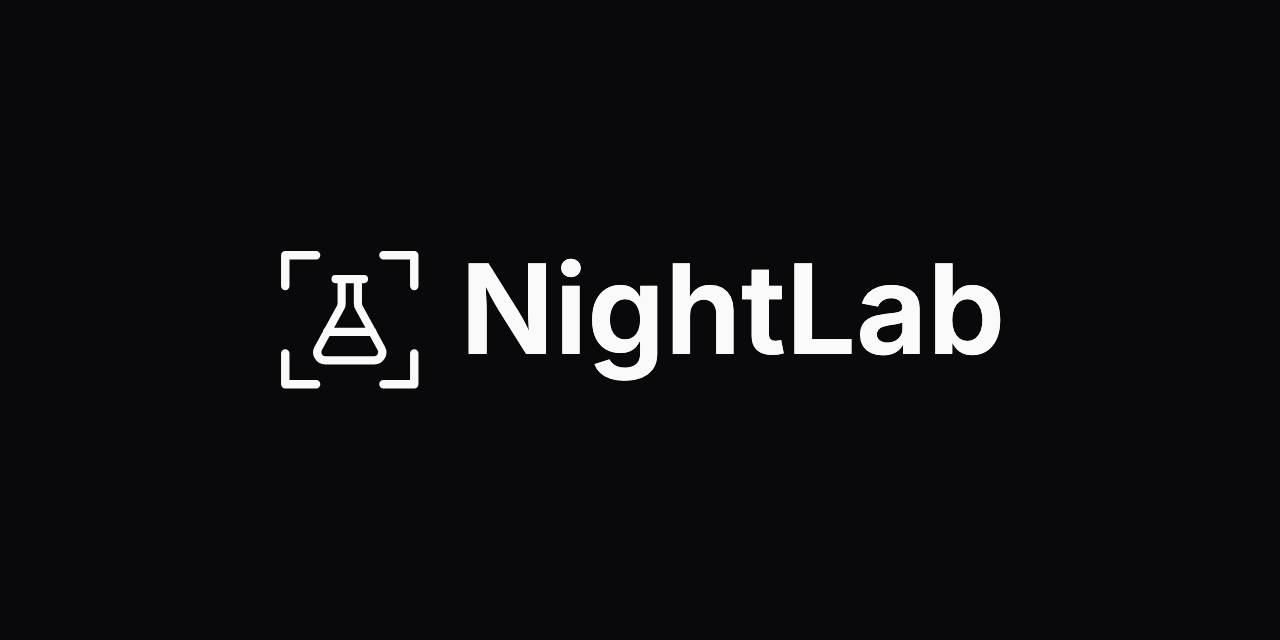
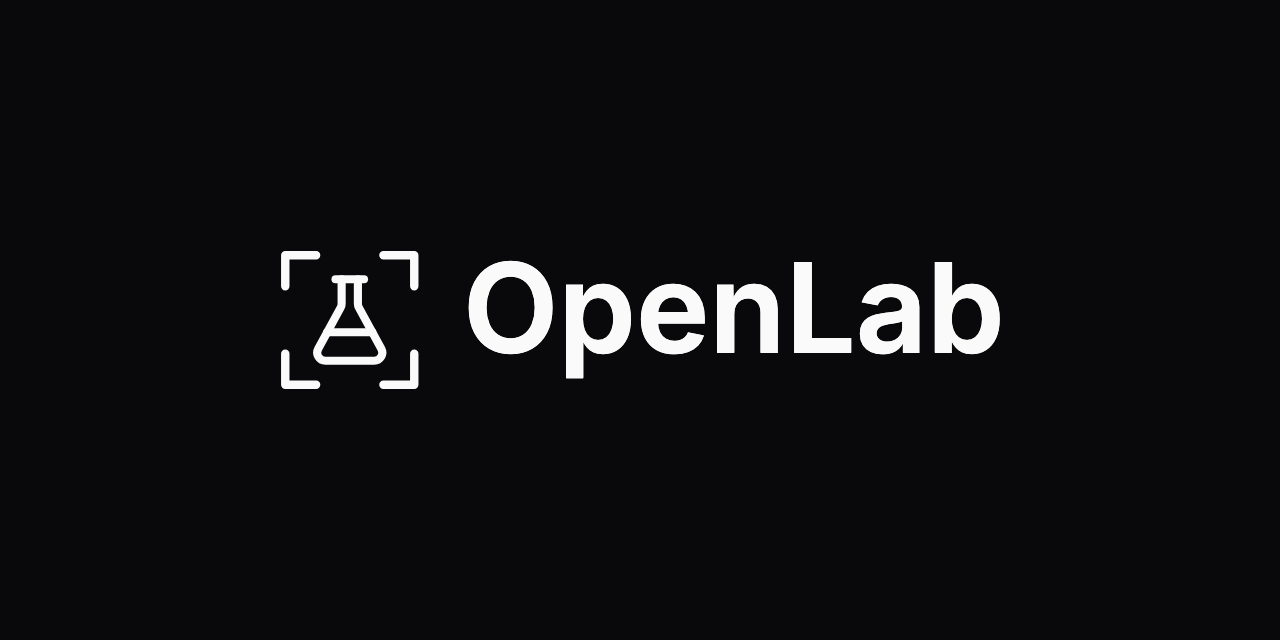
refactor(brand)!: rename the pack and reset the wordmark to OpenLab
The mark itself is untouched: the frame and the flask are one geometry
and carry no name. What changes is the word beside it, and every box the
word sets.

The lockups are re-typeset from the proportions this pack already states
rather than nudged by eye — the word's ink sits 0.28 of the mark's height
after the mark's ink and centred on it, 0.19 below it when stacked, with
the mark's own 11.7% padding closing each box. The horizontal lockup
comes out the same 271x64; the stacked one loses a unit to 204x118,
because `p` does not descend as far as `g` did.

The PNGs that carry the word are re-rendered from those lockups at the
sizes they shipped at. The ones that carry only the mark keep their bytes
and take the new name.

BREAKING CHANGE: every file in the pack is named openlab-* instead of
nightlab-*, and the React components are OpenLabMark and OpenLabLockup.

diff --git a/brand/preview.html b/brand/preview.html
@@ -3,7 +3,7 @@
 <head>
 <meta charset="utf-8" />
 <meta name="viewport" content="width=device-width, initial-scale=1" />
-<title>NightLab — brand pack</title>
+<title>OpenLab — brand pack</title>
 <style>
     :root { color-scheme: light dark; --bg: #f4f4f7; --ink: #09090b; --muted: #63646f; --rule: #d8d8e0; }
     @media (prefers-color-scheme: dark) { :root { --bg: #0f0f13; --ink: #fafafa; --muted: #9899a6; --rule: #2e2f3a; } }
@@ -40,31 +40,31 @@
 <body>
 <main>
     <header>
-        <h1>NightLab</h1>
+        <h1>OpenLab</h1>
         <p>Everything in this pack, at a glance. Generated from one geometry — see README.md.</p>
     </header>
 
     <section>
         <h2>Mark</h2>
         <p>Each file below sits on the ground it was made for, whatever theme you are reading this in.
-           The dark ground leads here on purpose: the product is called NightLab, and that is the ground
-           it will be seen on most.</p>
+           The dark ground leads here on purpose: the lab is driven from a terminal and watched on a
+           dark dashboard, and that is the ground the mark will be seen on most.</p>
         <div class="grid">
-        <figure class="tile sq auto"><img src="svg/nightlab-mark.svg" alt="nightlab-mark.svg" /><figcaption>nightlab-mark.svg<span class="note">switches itself</span></figcaption></figure>
-        <figure class="tile sq"><img src="svg/nightlab-mark-dark.svg" alt="nightlab-mark-dark.svg" /><figcaption>nightlab-mark-dark.svg<span class="note">for light grounds</span></figcaption></figure>
-        <figure class="tile sq ink"><img src="svg/nightlab-mark-light.svg" alt="nightlab-mark-light.svg" /><figcaption>nightlab-mark-light.svg<span class="note">for dark grounds</span></figcaption></figure>
-        <figure class="tile sq"><img src="svg/nightlab-mark-accent.svg" alt="nightlab-mark-accent.svg" /><figcaption>nightlab-mark-accent.svg<span class="note">brand colour</span></figcaption></figure>
-        <figure class="tile sq brand"><img src="svg/nightlab-mark-light.svg" alt="nightlab-mark-light.svg" /><figcaption>nightlab-mark-light.svg<span class="note">knocked out of the accent</span></figcaption></figure>
-        <figure class="tile sq auto"><img src="svg/nightlab-mark-dense.svg" alt="nightlab-mark-dense.svg" /><figcaption>nightlab-mark-dense.svg<span class="note">20px and below</span></figcaption></figure>
+        <figure class="tile sq auto"><img src="svg/openlab-mark.svg" alt="openlab-mark.svg" /><figcaption>openlab-mark.svg<span class="note">switches itself</span></figcaption></figure>
+        <figure class="tile sq"><img src="svg/openlab-mark-dark.svg" alt="openlab-mark-dark.svg" /><figcaption>openlab-mark-dark.svg<span class="note">for light grounds</span></figcaption></figure>
+        <figure class="tile sq ink"><img src="svg/openlab-mark-light.svg" alt="openlab-mark-light.svg" /><figcaption>openlab-mark-light.svg<span class="note">for dark grounds</span></figcaption></figure>
+        <figure class="tile sq"><img src="svg/openlab-mark-accent.svg" alt="openlab-mark-accent.svg" /><figcaption>openlab-mark-accent.svg<span class="note">brand colour</span></figcaption></figure>
+        <figure class="tile sq brand"><img src="svg/openlab-mark-light.svg" alt="openlab-mark-light.svg" /><figcaption>openlab-mark-light.svg<span class="note">knocked out of the accent</span></figcaption></figure>
+        <figure class="tile sq auto"><img src="svg/openlab-mark-dense.svg" alt="openlab-mark-dense.svg" /><figcaption>openlab-mark-dense.svg<span class="note">20px and below</span></figcaption></figure>
         </div>
     </section>
 
     <section>
         <h2>Lockups</h2>
         <div class="grid c1">
-        <figure class="tile wide"><img src="svg/nightlab-lockup.svg" alt="nightlab-lockup.svg" /><figcaption>nightlab-lockup.svg<span class="note">271&times;64</span></figcaption></figure>
-        <figure class="tile ink wide"><img src="svg/nightlab-lockup-light.svg" alt="nightlab-lockup-light.svg" /><figcaption>nightlab-lockup-light.svg<span class="note">same lockup, for dark grounds</span></figcaption></figure>
-        <figure class="tile wide"><img src="svg/nightlab-lockup-stacked.svg" alt="nightlab-lockup-stacked.svg" /><figcaption>nightlab-lockup-stacked.svg<span class="note">204&times;119, for square spaces</span></figcaption></figure>
+        <figure class="tile wide"><img src="svg/openlab-lockup.svg" alt="openlab-lockup.svg" /><figcaption>openlab-lockup.svg<span class="note">271&times;64</span></figcaption></figure>
+        <figure class="tile ink wide"><img src="svg/openlab-lockup-light.svg" alt="openlab-lockup-light.svg" /><figcaption>openlab-lockup-light.svg<span class="note">same lockup, for dark grounds</span></figcaption></figure>
+        <figure class="tile wide"><img src="svg/openlab-lockup-stacked.svg" alt="openlab-lockup-stacked.svg" /><figcaption>openlab-lockup-stacked.svg<span class="note">204&times;118, for square spaces</span></figcaption></figure>
         </div>
     </section>
 
@@ -75,16 +75,16 @@
         <figure class="tile true"><img src="favicon/favicon-16.png" alt="favicon-16.png" /><figcaption>favicon-16.png<span class="note">dense</span></figcaption></figure>
         <figure class="tile true"><img src="favicon/favicon-32.png" alt="favicon-32.png" /><figcaption>favicon-32.png<span class="note">dense</span></figcaption></figure>
         <figure class="tile true"><img src="favicon/favicon-48.png" alt="favicon-48.png" /><figcaption>favicon-48.png<span class="note">dense</span></figcaption></figure>
-        <figure class="tile true"><img src="png/nightlab-mark-64.png" alt="nightlab-mark-64.png" /><figcaption>nightlab-mark-64.png<span class="note">regular</span></figcaption></figure>
+        <figure class="tile true"><img src="png/openlab-mark-64.png" alt="openlab-mark-64.png" /><figcaption>openlab-mark-64.png<span class="note">regular</span></figcaption></figure>
         </div>
     </section>
 
     <section>
         <h2>Raster</h2>
         <div class="grid c4">
-        <figure class="tile sq"><img src="png/nightlab-mark-512.png" alt="nightlab-mark-512.png" /><figcaption>nightlab-mark-512.png<span class="note">avatars, wherever SVG is refused</span></figcaption></figure>
-        <figure class="tile sq ink"><img src="png/nightlab-mark-light-512.png" alt="nightlab-mark-light-512.png" /><figcaption>nightlab-mark-light-512.png<span class="note">for dark grounds</span></figcaption></figure>
-        <figure class="tile sq"><img src="png/nightlab-mark-accent-512.png" alt="nightlab-mark-accent-512.png" /><figcaption>nightlab-mark-accent-512.png<span class="note">brand colour</span></figcaption></figure>
+        <figure class="tile sq"><img src="png/openlab-mark-512.png" alt="openlab-mark-512.png" /><figcaption>openlab-mark-512.png<span class="note">avatars, wherever SVG is refused</span></figcaption></figure>
+        <figure class="tile sq ink"><img src="png/openlab-mark-light-512.png" alt="openlab-mark-light-512.png" /><figcaption>openlab-mark-light-512.png<span class="note">for dark grounds</span></figcaption></figure>
+        <figure class="tile sq"><img src="png/openlab-mark-accent-512.png" alt="openlab-mark-accent-512.png" /><figcaption>openlab-mark-accent-512.png<span class="note">brand colour</span></figcaption></figure>
         <figure class="tile sq"><img src="png/apple-touch-icon-180.png" alt="apple-touch-icon-180.png" /><figcaption>apple-touch-icon-180.png<span class="note">iOS home screen</span></figcaption></figure>
         <figure class="tile wide"><img src="png/social-preview-1280x640.png" alt="social-preview-1280x640.png" /><figcaption>social-preview-1280x640.png<span class="note">GitHub social preview</span></figcaption></figure>
         </div>

diff --git a/brand/react/openlab-lockup.tsx b/brand/react/openlab-lockup.tsx
@@ -1,6 +1,6 @@
-import { NightLabMark } from "#src/brand/nightlab-mark";
+import { OpenLabMark } from "#src/brand/openlab-mark";
 
-type NightLabLockupProps = {
+type OpenLabLockupProps = {
     className?: string;
 };
 
@@ -12,12 +12,12 @@ type NightLabLockupProps = {
  * This is the 48px size. To draw it larger, scale all three numbers together rather than any one of
  * them: `size-12` -> `size-16`, `text-[33px]` -> `text-[44px]`, `gap-[6px]` -> `gap-[8px]`.
  */
-export function NightLabLockup({ className }: NightLabLockupProps) {
+export function OpenLabLockup({ className }: OpenLabLockupProps) {
     return (
         <span className={className}>
             <span className="flex items-center gap-[6px]">
-                <NightLabMark className="size-12 shrink-0" />
-                <span className="font-[640] text-[33px] leading-none">NightLab</span>
+                <OpenLabMark className="size-12 shrink-0" />
+                <span className="font-[640] text-[33px] leading-none">OpenLab</span>
             </span>
         </span>
     );

diff --git a/brand/react/openlab-mark.tsx b/brand/react/openlab-mark.tsx
@@ -1,4 +1,4 @@
-type NightLabMarkProps = {
+type OpenLabMarkProps = {
     className?: string;
 };
 
@@ -10,9 +10,9 @@ type NightLabMarkProps = {
  * The flask is Lucide's `flask-conical` glyph, inlined rather than imported so the frame and the
  * flask stay one indivisible mark. Do not swap it for `<FlaskConicalIcon />`.
  */
-export function NightLabMark({ className }: NightLabMarkProps) {
+export function OpenLabMark({ className }: OpenLabMarkProps) {
     return (
-        <svg viewBox="0 0 64 64" fill="none" role="img" aria-label="NightLab" className={className}>
+        <svg viewBox="0 0 64 64" fill="none" role="img" aria-label="OpenLab" className={className}>
             <g stroke="currentColor" strokeWidth={3} strokeLinecap="round" strokeLinejoin="round">
                 <path d="M9 20V9H20" />
                 <path d="M44 9H55V20" />

diff --git a/brand/README.md b/brand/README.md
@@ -1,10 +1,10 @@
-# NightLab — brand pack
+# OpenLab — brand pack
 
 The mark is a boundary drawn as four crop marks with a flask standing inside it: the lab is a
 directory you own, and the work happens within it.
 
-The name is written **NightLab** wherever a person reads it: the wordmark, prose, the site. It is
-written `nightlab` wherever a machine reads it: the npm package, the CLI, and the file names in this
+The name is written **OpenLab** wherever a person reads it: the wordmark, prose, the site. It is
+written `openlab` wherever a machine reads it: the npm package, the CLI, and the file names in this
 pack. npm has no other option, and mixed case in paths breaks across filesystems. Keep the split.
 
 Everything here is generated from one geometry, so no file can drift from another. The mark is
@@ -15,18 +15,18 @@ holds at any size.
 
 | You need | Use |
 | --- | --- |
-| A mark on a page that has light and dark themes | `svg/nightlab-mark.svg` — switches itself |
-| A mark on a known light background | `svg/nightlab-mark-dark.svg` |
-| A mark on a known dark background | `svg/nightlab-mark-light.svg` |
-| A mark that should carry the brand colour | `svg/nightlab-mark-accent.svg` |
-| A mark at 20px or smaller | `svg/nightlab-mark-dense.svg` — same form, heavier stroke |
-| The mark with the name, in a wide space | `svg/nightlab-lockup.svg` |
-| The mark with the name, in a square space | `svg/nightlab-lockup-stacked.svg` |
+| A mark on a page that has light and dark themes | `svg/openlab-mark.svg` — switches itself |
+| A mark on a known light background | `svg/openlab-mark-dark.svg` |
+| A mark on a known dark background | `svg/openlab-mark-light.svg` |
+| A mark that should carry the brand colour | `svg/openlab-mark-accent.svg` |
+| A mark at 20px or smaller | `svg/openlab-mark-dense.svg` — same form, heavier stroke |
+| The mark with the name, in a wide space | `svg/openlab-lockup.svg` |
+| The mark with the name, in a square space | `svg/openlab-lockup-stacked.svg` |
 | A browser tab | `favicon/favicon.svg`, with the PNGs beside it as fallback |
-| A GitHub or npm avatar (SVG is not accepted) | `png/nightlab-mark-512.png` |
+| A GitHub or npm avatar (SVG is not accepted) | `png/openlab-mark-512.png` |
 | A GitHub social preview | `png/social-preview-1280x640.png` |
 | An iOS home screen icon | `png/apple-touch-icon-180.png` |
-| The dashboard | `react/nightlab-mark.tsx` |
+| The dashboard | `react/openlab-mark.tsx` |
 
 Open `preview.html` to see all of it at once.
 
@@ -62,7 +62,7 @@ The word is Inter Variable at weight 640. Proportions, as a share of the mark's 
 Those are ink measurements, which is what the eye reads. If you are laying it out in CSS, the mark's
 box carries 11.7% of trailing padding inside it and the word carries its own left side bearing, so
 the CSS `gap` that reproduces the rule is **`0.116` of the mark's height** — about 6px when the mark is
-48px. `react/nightlab-lockup.tsx` already has those numbers in it.
+48px. `react/openlab-lockup.tsx` already has those numbers in it.
 
 There is no separate wordmark file, and that is on purpose: the word is live text in the product's
 own typeface, so it stays crisp at any size and never falls out of step when the typeface updates.
